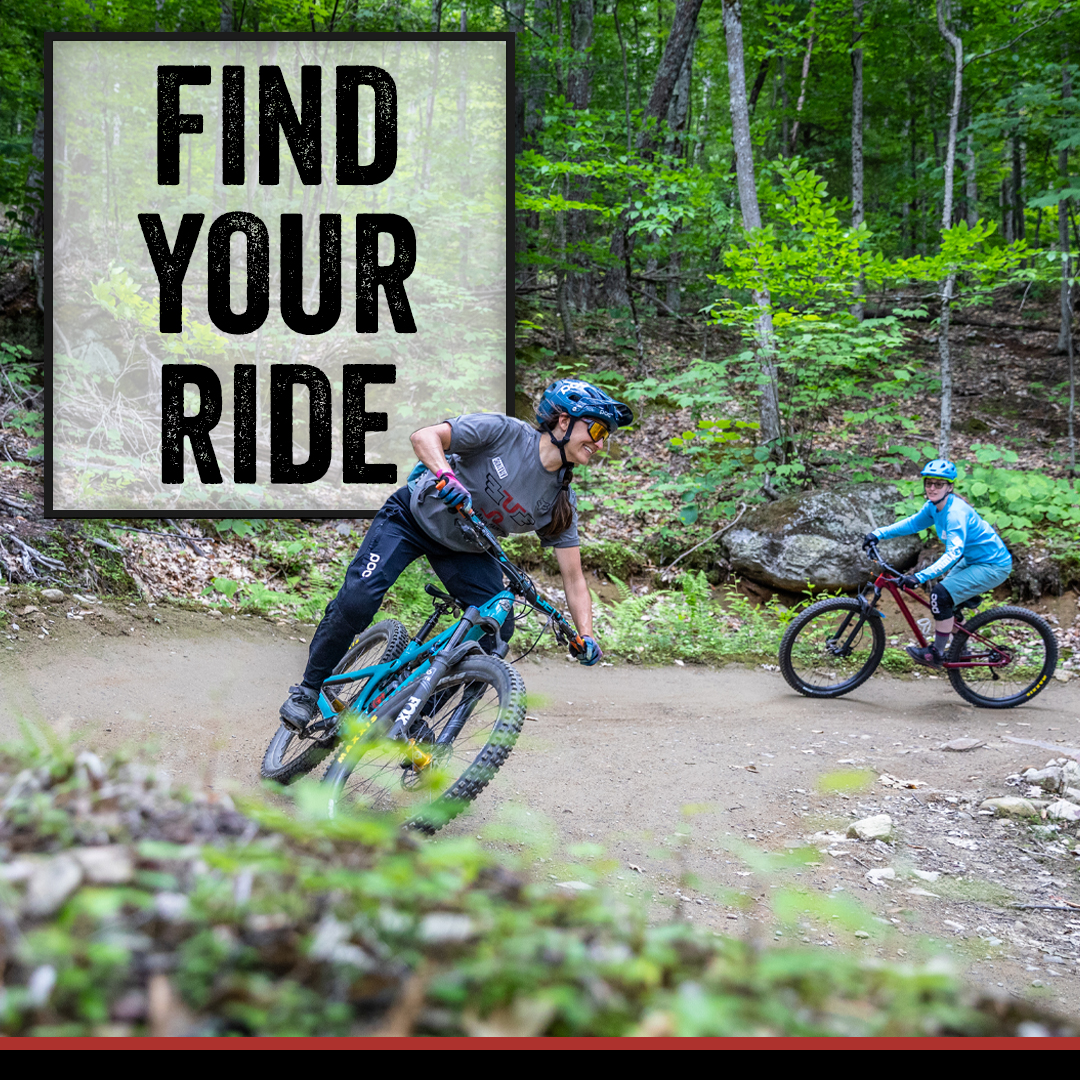
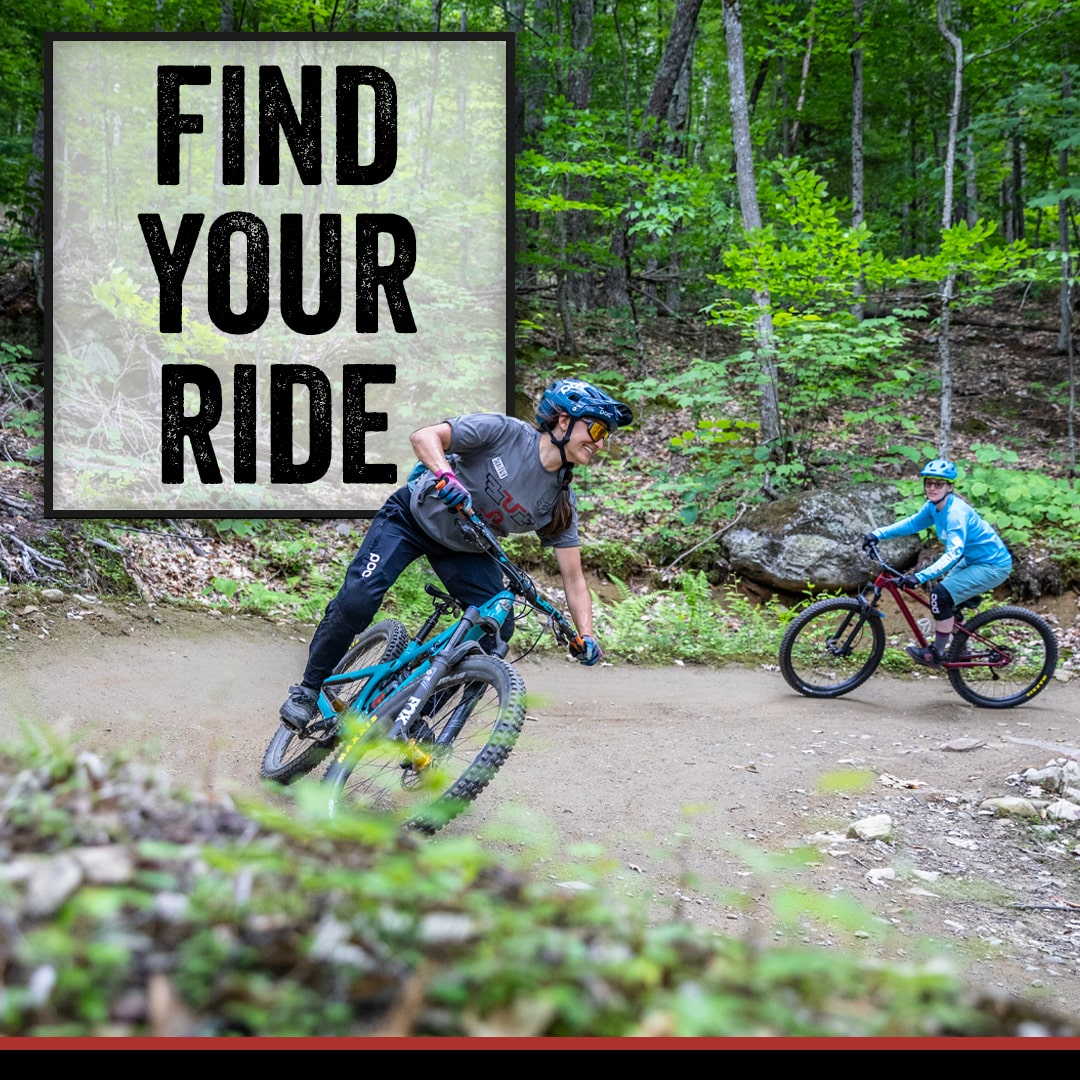
reduced size default img, added some css

diff --git a/src/style.css b/src/style.css
@@ -72,15 +72,20 @@ select {
 .wrapper{
   display: flex;
   justify-content: space-between;
+
   }
 
 /*side menu*/
 .side{
   display: flex;
 }
+
 .menu{
   display: flex;
-  background-color: bisque;
+  background-color: black;
+  width: 200px;
+  height: 100%;
+  padding-top: 10px;
 }
 .menu-items{
   display: flex;
@@ -90,15 +95,22 @@ select {
 }
 .button{
 border-style: dotted;
+color:azure;
+}
+.button:hover{
+  cursor: pointer;
+  color: blue;
 }
 
 /*main content*/
 .main{
 display: flex;
 flex-direction: column;
+max-width: 70%;
 }
+#image{
 
-.button:hover{
-  cursor: pointer;
-  color: blue;
+}
+.text{
+  margin-top: 2em;
 }
